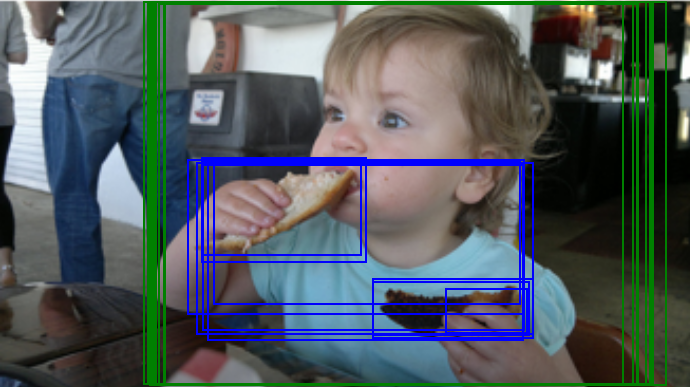
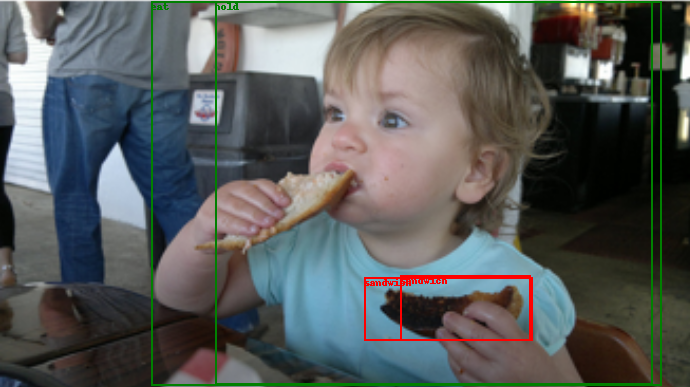
update model

Changed region(s): [[0.2739, 0.4031, 0.7913, 0.8992], [0.1826, 0.0, 0.9739, 1.0], [0.3043, 0.9612, 0.3348, 0.9922]]

diff --git a/run_model.py b/run_model.py
@@ -217,8 +217,8 @@ verb_classes = [
 ]
 
 
-def getImage():
-    image = Image.open("download.png").convert("RGB")
+def getImage(imagePath="download.png"):
+    image = Image.open(imagePath).convert("RGB")
     target = {}
     w, h = image.size
     target["orig_size"] = torch.as_tensor([int(h), int(w)])
@@ -305,47 +305,6 @@ class PostProcessHOI(nn.Module):
                 output.append(data)
 
             results.append(output)
-
-            # sl = torch.full_like(ol, self.subject_category_id)
-            # l = torch.cat((ol, sl))
-            # b = torch.cat((ob, sb))
-
-            # bboxes = [
-            #     {"bbox": bbox, "category_id": label}
-            #     for bbox, label in zip(ob.to("cpu").numpy(), l.to("cpu").numpy())
-            # ]
-
-            # hoi_scores = vs * os.unsqueeze(1)
-
-            # verb_labels = (
-            #     torch.arange(hoi_scores.shape[1], device="cpu")
-            #     .view(1, -1)
-            #     .expand(hoi_scores.shape[0], -1)
-            # )
-            # object_labels = ol.view(-1, 1).expand(-1, hoi_scores.shape[1])
-            # # masks = self.correct_mat[
-            # #     verb_labels.reshape(-1), object_labels.reshape(-1)
-            # # ].view(hoi_scores.shape)
-            # # hoi_scores *= masks
-
-            # ids = torch.arange(b.shape[0])
-
-            # hois = [
-            #     {
-            #         "subject_id": subject_id,
-            #         "object_id": object_id,
-            #         "category_id": category_id,
-            #         "score": score,
-            #     }
-            #     for subject_id, object_id, category_id, score in zip(
-            #         ids[: ids.shape[0] // 2].to("cpu").numpy(),
-            #         ids[ids.shape[0] // 2 :].to("cpu").numpy(),
-            #         verb_labels.to("cpu").numpy(),
-            #         hoi_scores.to("cpu").numpy(),
-            #     )
-            # ]
-
-            # results.append({"predictions": bboxes, "hoi_prediction": hois})
 
         return results
 
@@ -591,14 +550,14 @@ def generate(results, targets, missing_category_id=80):
     return detections
 
 
-if __name__ == "__main__":
+def run(imagePath="download.png"):
     parser = argparse.ArgumentParser(
         "DETR training and evaluation script", parents=[get_args_parser()]
     )
     args = parser.parse_args()
 
     device = torch.device("cpu")
-    image, target = getImage()
+    image, target = getImage(imagePath)
     targets = [{k: (v.to(device) if k != "id" else v) for k, v in target.items()}]
 
     model = getModel(args)
@@ -615,70 +574,47 @@ if __name__ == "__main__":
     results = postprocessor(model_result, orig_target_sizes)
     result = results[0]
 
-    # labels = result["labels"]
-    # boxes = result["boxes"]
-    # verb_scores = result["verb_scores"]
-    # sub_ids = result["sub_ids"]
-    # obj_ids = result["obj_ids"]
-    # predictions = result["predictions"]
-    # hoi_prediction = result["hoi_prediction"]
+    final = []
 
-    print(
-        # labels.shape,
-        # boxes.shape,
-        # verb_scores.shape,
-        # sub_ids.shape,
-        # obj_ids.shape,
-        # hoi_prediction,
-        # predictions,
-        # hoi_prediction,
-        # result,
-        # len(result),
-        sep="\n",
-    )
-
-    image = Image.open("download.png")
-    draw = ImageDraw.Draw(image)
-
-    # final = []
-
-    # for hoi in hoi_prediction:
-    #     scores = hoi["score"]
-    #     subject_id = hoi["subject_id"].tolist()
-    #     object_id = hoi["object_id"].tolist()
-
-    #     # max_index = torch.argmax(scores).item()
-    #     max_index = np.ndarray.argmax(scores).item()
-
-    #     category_id = hoi["category_id"][max_index].item()
-    #     sbox = predictions[subject_id]["bbox"].tolist()
-    #     obox = predictions[object_id - 100]["bbox"].tolist()
-    #     vbox = predictions[max_index]["bbox"].tolist()
-
-    #     # print(subject_id, object_id, verb_classes[category_id], "", sep="\n")
-
-    #     # draw.rectangle(vbox, width=2, outline="red")
-    #     data = {
-    #         "sbox": sbox,
-    #         "obox": obox,
-    #         "vbox": vbox,
-    #         "verb": verb_classes[category_id],
-    #         "score": scores[max_index].item(),
-    #     }
-    #     final.append(data)
-
-    result.sort(key=lambda v: v["score"], reverse=True)
-
-    for i in range(10):
-        data = result[i]
-        hbox = data["hbox"]
-        obox = data["obox"]
-        label = data["label"]
+    for data in result:
+        # hbox = data["hbox"]
+        # obox = data["obox"]
+        # label = data["label"]
         verb = data["verb"]
         score = data["score"]
 
-        draw.rectangle(hbox, width=2, outline="green")
-        draw.rectangle(obox, width=2, outline="blue")
-        print(verb, label, score, sep="\n")
+        index = -1
+        for j, d in enumerate(final):
+            if d["verb"] == verb:
+                if d["score"] < score:
+                    final[j] = data
+                index = j
+                break
 
-    image.save("output.png")
+        if index == -1:
+            final.append(data)
+
+    final.sort(key=lambda v: v["score"], reverse=True)
+    return final
+
+
+if __name__ == "__main__":
+    imagePath = "download.jpg"
+    result = run(imagePath)
+
+    image = Image.open(imagePath)
+    draw = ImageDraw.Draw(image)
+
+    for data in result:
+        hbox = data["hbox"]
+        obox = data["obox"]
+        label = labels[data["label"]]["name"]
+        verb = data["verb"]
+
+        draw.rectangle(hbox, width=2, outline="green")
+        draw.rectangle(obox, width=2, outline="red")
+        draw.text([hbox[0].item(), hbox[1].item()], fill="green", text=verb)
+        draw.text([obox[0].item(), obox[1].item()], fill="red", text=label)
+
+    imageFileExtension = imagePath.split(".")[-1]
+    image.save(f"output.{imageFileExtension}")
